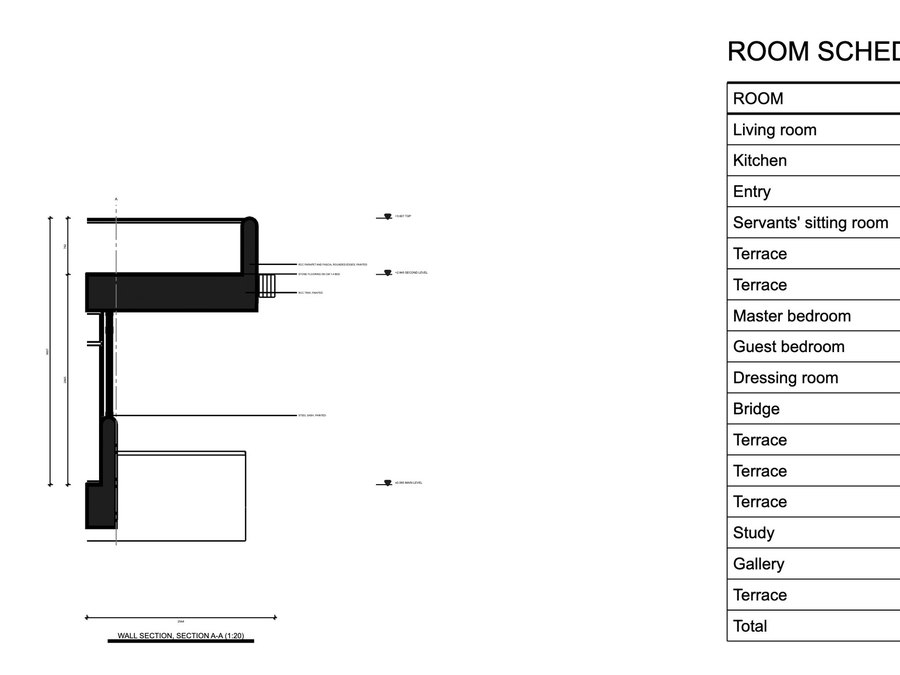
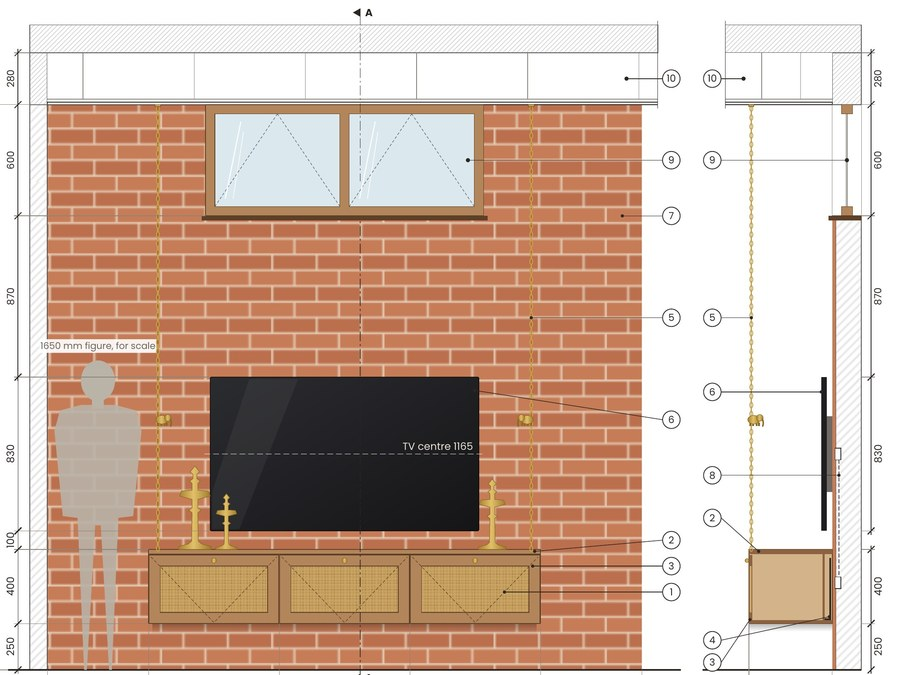
Working drawings lead with a family house's joinery (TV console, crockery unit), firm name removed; card 3 shows the console; no provenance note under the sheets

diff --git a/index.html b/index.html
@@ -268,7 +268,7 @@ footer .wrap { display: flex; justify-content: space-between; gap: 20px; flex-wr
       <div class="arrow" aria-hidden="true">→</div>
       <a class="stage-card reveal" href="#drawings"><img src="img/flow-fw-dwg.jpg" alt="Fallingwater's south elevation, drawn by Idam" loading="lazy"><div class="body"><div class="k">2</div><h3>Drawings</h3><p>Plans, elevations and sections generated from the model, with every layer at its pen.</p></div></a>
       <div class="arrow" aria-hidden="true">→</div>
-      <a class="stage-card reveal" href="#working"><img src="img/flow-working.jpg" alt="A wall section at 1:20 and a room schedule" loading="lazy"><div class="body"><div class="k">3</div><h3>Working drawings</h3><p>Dimensioned, construction-ready (GFC) sets, produced automatically from the same model.</p></div></a>
+      <a class="stage-card reveal" href="#working"><img src="img/flow-working.jpg" alt="A TV console's working drawing: front elevation and section, dimensioned" loading="lazy"><div class="body"><div class="k">3</div><h3>Working drawings</h3><p>Dimensioned, construction-ready (GFC) sets, produced automatically from the same model.</p></div></a>
     </div>
 
     <div class="layers-explain reveal">
@@ -375,7 +375,7 @@ footer .wrap { display: flex; justify-content: space-between; gap: 20px; flex-wr
       </div>
       <div class="sheet-view"><img src="drawings/sheet-fh-north.jpg" alt="A drawing"></div>
       <div class="sheet-empty">Not in the set yet: this layer's drawings are next.</div>
-      <p class="sheet-note">Drawn with Claude, the AI behind Idam's assistant, for practising studios' projects: a banquet hall, an apartment and a family house. Firm, client and place names removed. Click to zoom; drag to look around.</p>
+      <p class="sheet-note">Click to zoom; drag to look around.</p>
     </div>
   </div>
 </section>
@@ -384,23 +384,25 @@ footer .wrap { display: flex; justify-content: space-between; gap: 20px; flex-wr
   <div class="wrap">
     <div class="stage-head"><h2 class="reveal"><span class="num">3</span>Working drawings</h2></div>
     <p class="lede reveal">The construction set (GFC), produced automatically from the same model: setting-out grids, running dimensions, levels, wall sections at 1:20, door, window and room schedules, and quantities by material. Dimensioned and weighted, as DWG.</p>
-    <div class="layer-tabs" data-stage="working"><button data-layer="arch" aria-pressed="true">Architecture</button><button data-layer="struct" aria-pressed="false">Structure</button><button data-layer="services" aria-pressed="false">Services</button><button data-layer="int" aria-pressed="false">Interiors</button><button data-layer="land" aria-pressed="false">Landscape</button></div>
-    <div class="layer-panel on" data-stage="working" data-layer="arch"><p>Dimensioned plans on their grid, levels on every floor, wall sections at 1:20, door and window schedules. <span class="st today">Today</span></p><p class="later">Gate and compound wall details: next.</p></div>
+    <div class="layer-tabs" data-stage="working"><button data-layer="arch" aria-pressed="false">Architecture</button><button data-layer="struct" aria-pressed="false">Structure</button><button data-layer="services" aria-pressed="false">Services</button><button data-layer="int" aria-pressed="true">Interiors</button><button data-layer="land" aria-pressed="false">Landscape</button></div>
+    <div class="layer-panel" data-stage="working" data-layer="arch"><p>Dimensioned plans on their grid, levels on every floor, wall sections at 1:20, door and window schedules. <span class="st today">Today</span></p><p class="later">Gate and compound wall details: next.</p></div>
     <div class="layer-panel" data-stage="working" data-layer="struct"><p>Column and beam positions dimensioned to the grid, for the structural engineer to size. <span class="st today">Today</span></p></div>
     <div class="layer-panel" data-stage="working" data-layer="services"><p>Lighting setting-out, and toilet part plans at 1:25 with their elevations, every point dimensioned from the walls. <span class="st today">Today</span></p></div>
-    <div class="layer-panel" data-stage="working" data-layer="int"><p>Toilet part plans and wall elevations with every fitting placed; room schedules with floor areas. <span class="st today">Today</span></p><p class="later">Feature-wall elevations with the panelling and joinery, false-ceiling plans and flooring layouts: next.</p></div>
+    <div class="layer-panel on" data-stage="working" data-layer="int"><p>Joinery working drawings (a TV console on its brick feature wall, a crockery unit): plan, front elevation and section, dimensioned, with a numbered key of materials and fixings. Toilet part plans with their wall elevations. <span class="st today">Today</span></p><p class="later">False-ceiling plans and flooring layouts: next.</p></div>
     <div class="layer-panel" data-stage="working" data-layer="land"><p>A site laid out to the boundary: garden walks, paving, water and planting dimensioned to a grid. <span class="st today">Today</span></p></div>
     <div class="sheets reveal">
       <div class="sheet-tabs">
-        <button data-sheet="drawings/sheet-hall-dimensioned.jpg" data-layers="arch land struct" aria-pressed="true">A banquet hall · dimensioned site layout</button>
+        <button data-sheet="drawings/sheet-fh-tv-console.jpg" data-layers="int arch" aria-pressed="true">A family house · TV console</button>
+        <button data-sheet="drawings/sheet-fh-crockery.jpg" data-layers="int" aria-pressed="false">A family house · crockery unit</button>
+        <button data-sheet="drawings/sheet-hall-dimensioned.jpg" data-layers="arch land struct" aria-pressed="false">A banquet hall · dimensioned site layout</button>
         <button data-sheet="drawings/sheet-apt-setting-out.jpg" data-layers="services int" aria-pressed="false">An apartment · lighting setting-out plan</button>
         <button data-sheet="drawings/sheet-apt-toilet-1.jpg" data-layers="services int arch" aria-pressed="false">An apartment · toilet part plan and elevations</button>
         <button data-sheet="drawings/sheet-apt-toilet-2.jpg" data-layers="services int" aria-pressed="false">An apartment · a second toilet</button>
         <button data-sheet="drawings/sheet-plan.jpg" data-layers="arch struct int" aria-pressed="false">A family house · ground floor working plan</button>
       </div>
-      <div class="sheet-view"><img src="drawings/sheet-hall-dimensioned.jpg" alt="A drawing"></div>
+      <div class="sheet-view"><img src="drawings/sheet-fh-tv-console.jpg" alt="A drawing"></div>
       <div class="sheet-empty">Not in the set yet: this layer's working drawings are next.</div>
-      <p class="sheet-note">Drawn with Claude, the AI behind Idam's assistant, for practising studios' projects: a banquet hall, an apartment and a family house. Firm, client and place names removed. Dimensioned in feet and inches, as the studios work.</p>
+      <p class="sheet-note">Click to zoom; drag to look around.</p>
     </div>
   </div>
 </section>
